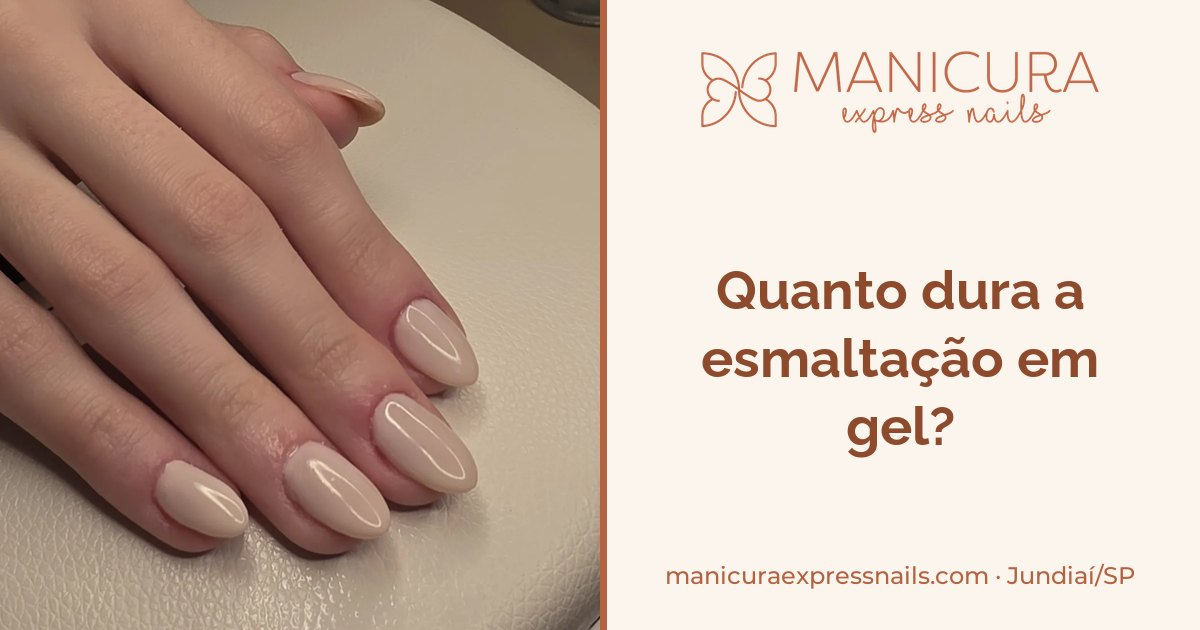
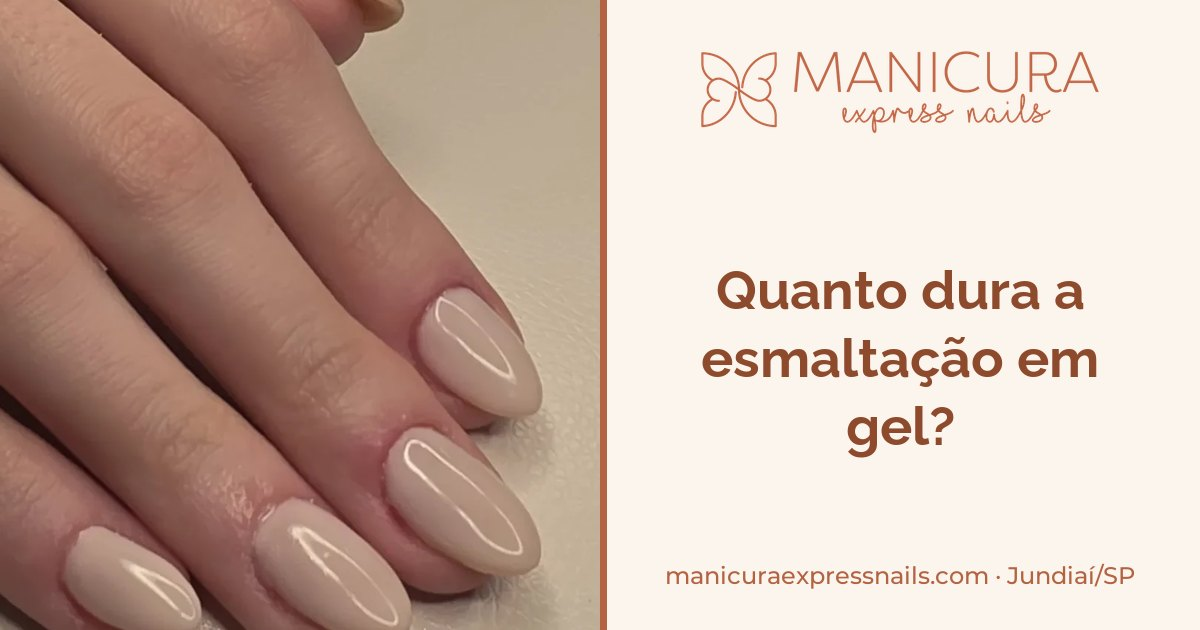
blog: recorta imagens do artigo de durabilidade do gel com foco nas unhas

Changed region(s): [[0.0, 0.0, 0.5242, 1.0], [0.37, 0.0, 0.5242, 0.181], [0.2158, 0.3016, 0.2467, 0.3317]]

diff --git a/artigo-quanto-dura-esmaltacao-em-gel-jundiai.html b/artigo-quanto-dura-esmaltacao-em-gel-jundiai.html
@@ -161,21 +161,21 @@
     },
     {
      "@type": "ImageObject",
-     "url": "https://manicuraexpressnails.com/img/site/dura-gel-nude-amendoado-cabine-onail-jundiai.webp",
-     "width": 1200,
-     "height": 1600
+     "url": "https://manicuraexpressnails.com/img/site/dura-gel-nude-amendoado-cabine-onail-jundiai-close.webp",
+     "width": 810,
+     "height": 1080
     },
     {
      "@type": "ImageObject",
-     "url": "https://manicuraexpressnails.com/img/site/dura-preparo-unha-luvas-estudio-jundiai.webp",
-     "width": 1200,
-     "height": 1600
+     "url": "https://manicuraexpressnails.com/img/site/dura-preparo-unha-luvas-estudio-jundiai-close.webp",
+     "width": 720,
+     "height": 960
     },
     {
      "@type": "ImageObject",
-     "url": "https://manicuraexpressnails.com/img/site/dura-gel-vermelho-unhas-curtas-jundiai.webp",
-     "width": 1200,
-     "height": 1600
+     "url": "https://manicuraexpressnails.com/img/site/dura-gel-vermelho-unhas-curtas-jundiai-close.webp",
+     "width": 720,
+     "height": 960
     }
    ],
    "articleSection": "Esmaltação em gel",
@@ -439,7 +439,7 @@
       <h1 class="font-title text-3xl md:text-4xl tracking-tight mb-4 text-[#B46342]">Quanto dura a esmaltação em gel? O que encurta e como fazer durar mais</h1>
       <p class="text-sm text-black/60 font-subtitle mb-6">Por <a class="text-[#B46342] underline" href="sobre-nayara-jundiai.html">Nayara das Dores Santos</a>, nail designer e responsável técnica do Manicura Express Nails, no Anhangabaú, em Jundiaí/SP · publicado em <time datetime="2026-10-07">7 de outubro de 2026</time></p>
       <p class="font-subtitle text-lg md:text-xl text-black/85 leading-relaxed bg-[#F3E7DA] border border-[#D1BFA7] rounded-2xl p-5">A esmaltação em gel tem <strong>maior durabilidade</strong> que o esmalte comum, mas não existe um número igual para todo mundo: quanto ela dura <strong>varia de pessoa para pessoa</strong>. Pesam o crescimento da sua unha, o preparo, a secagem completa de cada camada na cabine e a sua rotina em casa. E, mesmo com tudo certo, a unha da mão cresce cerca de 3,5 mm por mês<sup><a href="#fonte-1" class="text-[#B46342]" aria-label="Fonte 1">1</a></sup> — é esse espacinho perto da cutícula que costuma pedir a próxima visita.</p>
-      <figure class="my-10"><div class="w-full h-96 rounded-3xl overflow-hidden shadow-lg"><img src="img/site/dura-gel-nude-amendoado-cabine-onail-jundiai.webp" alt="Mão com esmaltação em gel nude bege em unhas amendoadas, apoiada sobre a cabine O NAIL no estúdio em Jundiaí" width="1200" height="1600" fetchpriority="high" decoding="async" class="w-full h-full object-cover" style="object-position:50% 45%"></div><figcaption class="text-sm text-black/60 text-center mt-3 font-subtitle">Nude com brilho de vidro, feito no estúdio: é assim que a gente quer que ele fique até a próxima visita.</figcaption></figure>
+      <figure class="my-10"><div class="w-full h-96 rounded-3xl overflow-hidden shadow-lg"><img src="img/site/dura-gel-nude-amendoado-cabine-onail-jundiai-close.webp" alt="Mão com esmaltação em gel nude bege em unhas amendoadas, apoiada sobre a cabine O NAIL no estúdio em Jundiaí" width="810" height="1080" fetchpriority="high" decoding="async" class="w-full h-full object-cover" style="object-position:50% 50%"></div><figcaption class="text-sm text-black/60 text-center mt-3 font-subtitle">Nude com brilho de vidro, feito no estúdio: é assim que a gente quer que ele fique até a próxima visita.</figcaption></figure>
      </header>
 
      <div class="space-y-8 text-base text-black/80 leading-relaxed">
@@ -475,7 +475,7 @@
         <li><strong>Impacto e rotina.</strong> Usar a unha como ferramenta (abrir lata, raspar etiqueta) e bater a ponta com frequência cobram seu preço. Até quando é a própria unha que se solta do dedo, nas mãos a maioria dos casos vem de trauma, da manicure, do trabalho ou de hábitos do dia a dia<sup><a href="#fonte-4" class="text-[#B46342]" aria-label="Fonte 4">4</a></sup>.</li>
         <li><strong>O crescimento da unha.</strong> Esse não tem como evitar — e merece uma explicação só dele.</li>
        </ul>
-       <figure class="my-10"><div class="w-full h-96 rounded-3xl overflow-hidden shadow-lg"><img src="img/site/dura-preparo-unha-luvas-estudio-jundiai.webp" alt="Profissional de luvas pretas segurando a mão da cliente durante o preparo das unhas na bancada do estúdio em Jundiaí" width="1200" height="1600" loading="lazy" decoding="async" class="w-full h-full object-cover" style="object-position:50% 40%"></div><figcaption class="text-sm text-black/60 text-center mt-3 font-subtitle">O preparo é a etapa que ninguém vê — e a que mais pesa na durabilidade.</figcaption></figure>
+       <figure class="my-10"><div class="w-full h-96 rounded-3xl overflow-hidden shadow-lg"><img src="img/site/dura-preparo-unha-luvas-estudio-jundiai-close.webp" alt="Profissional de luvas pretas segurando a mão da cliente durante o preparo das unhas na bancada do estúdio em Jundiaí" width="720" height="960" loading="lazy" decoding="async" class="w-full h-full object-cover" style="object-position:50% 50%"></div><figcaption class="text-sm text-black/60 text-center mt-3 font-subtitle">O preparo é a etapa que ninguém vê — e a que mais pesa na durabilidade.</figcaption></figure>
       </section>
 
       <section aria-labelledby="s3">
@@ -495,7 +495,7 @@
         <li><strong>Levantou uma pontinha? Não puxe.</strong> Arrancar o gel pode deixar a unha mais fina e fraca<sup><a href="#fonte-5" class="text-[#B46342]" aria-label="Fonte 5">5</a></sup>. Chame a gente no <a class="text-[#B46342] underline" href="https://wa.me/5511959963541" target="_blank" rel="noopener">WhatsApp</a>; para tirar, existe a Remoção Esmaltação em Gel, feita no estúdio.</li>
         <li><strong>Agende a próxima visita</strong> antes que o crescimento incomode: a profissional indica o intervalo certo para o ritmo da sua unha e a sua rotina.</li>
        </ul>
-       <figure class="my-10"><div class="w-full h-96 rounded-3xl overflow-hidden shadow-lg"><img src="img/site/dura-gel-vermelho-unhas-curtas-jundiai.webp" alt="Esmaltação em gel vermelho clássico em unhas curtas arredondadas, com brilho alto, feita no estúdio em Jundiaí" width="1200" height="1600" loading="lazy" decoding="async" class="w-full h-full object-cover" style="object-position:50% 50%"></div><figcaption class="text-sm text-black/60 text-center mt-3 font-subtitle">Vermelho clássico em unhas curtas: um formato prático, que acompanha bem a rotina.</figcaption></figure>
+       <figure class="my-10"><div class="w-full h-96 rounded-3xl overflow-hidden shadow-lg"><img src="img/site/dura-gel-vermelho-unhas-curtas-jundiai-close.webp" alt="Esmaltação em gel vermelho clássico em unhas curtas arredondadas, com brilho alto, feita no estúdio em Jundiaí" width="720" height="960" loading="lazy" decoding="async" class="w-full h-full object-cover" style="object-position:50% 50%"></div><figcaption class="text-sm text-black/60 text-center mt-3 font-subtitle">Vermelho clássico em unhas curtas: um formato prático, que acompanha bem a rotina.</figcaption></figure>
       </section>
 
       <section aria-labelledby="s5" class="bg-white rounded-3xl p-6 md:p-8 border border-[#D1BFA7]/50">

diff --git a/blog-jundiai.html b/blog-jundiai.html
@@ -157,7 +157,7 @@
       <h2 id="artigos-destaque-title" class="sr-only">Artigos em Destaque</h2>
       <div class="grid md:grid-cols-2 gap-8">
       <article class="bg-white rounded-3xl p-6 border border-[#D1BFA7]/50 flex flex-col gap-4">
-       <div class="w-full h-64 rounded-2xl overflow-hidden shadow-lg"><a href="artigo-quanto-dura-esmaltacao-em-gel-jundiai.html"><img src="img/site/dura-gel-nude-amendoado-cabine-onail-jundiai.webp" alt="Esmaltação em gel nude em unhas amendoadas sobre a cabine O NAIL" loading="lazy" class="w-full h-full object-cover object-center transition-transform duration-300 hover:scale-105"></a></div>
+       <div class="w-full h-64 rounded-2xl overflow-hidden shadow-lg"><a href="artigo-quanto-dura-esmaltacao-em-gel-jundiai.html"><img src="img/site/dura-gel-nude-amendoado-cabine-onail-jundiai-close.webp" alt="Esmaltação em gel nude em unhas amendoadas sobre a cabine O NAIL" loading="lazy" class="w-full h-full object-cover object-center transition-transform duration-300 hover:scale-105"></a></div>
        <span class="text-[11px] font-subtitle tracking-[0.16em] uppercase text-[#B46342]">ESMALTAÇÃO EM GEL</span>
        <h3 class="font-title text-xl tracking-wide"><a href="artigo-quanto-dura-esmaltacao-em-gel-jundiai.html" class="hover:text-[#B46342] transition-colors">Quanto dura a esmaltação em gel?</a></h3>
        <p class="text-sm text-black/80 leading-relaxed">O gel dura mais que o esmalte comum, e quanto dura varia de pessoa para pessoa. Veja o que encurta a durabilidade, quanto a unha cresce por mês e como fazer sua esmaltação durar mais.</p>
